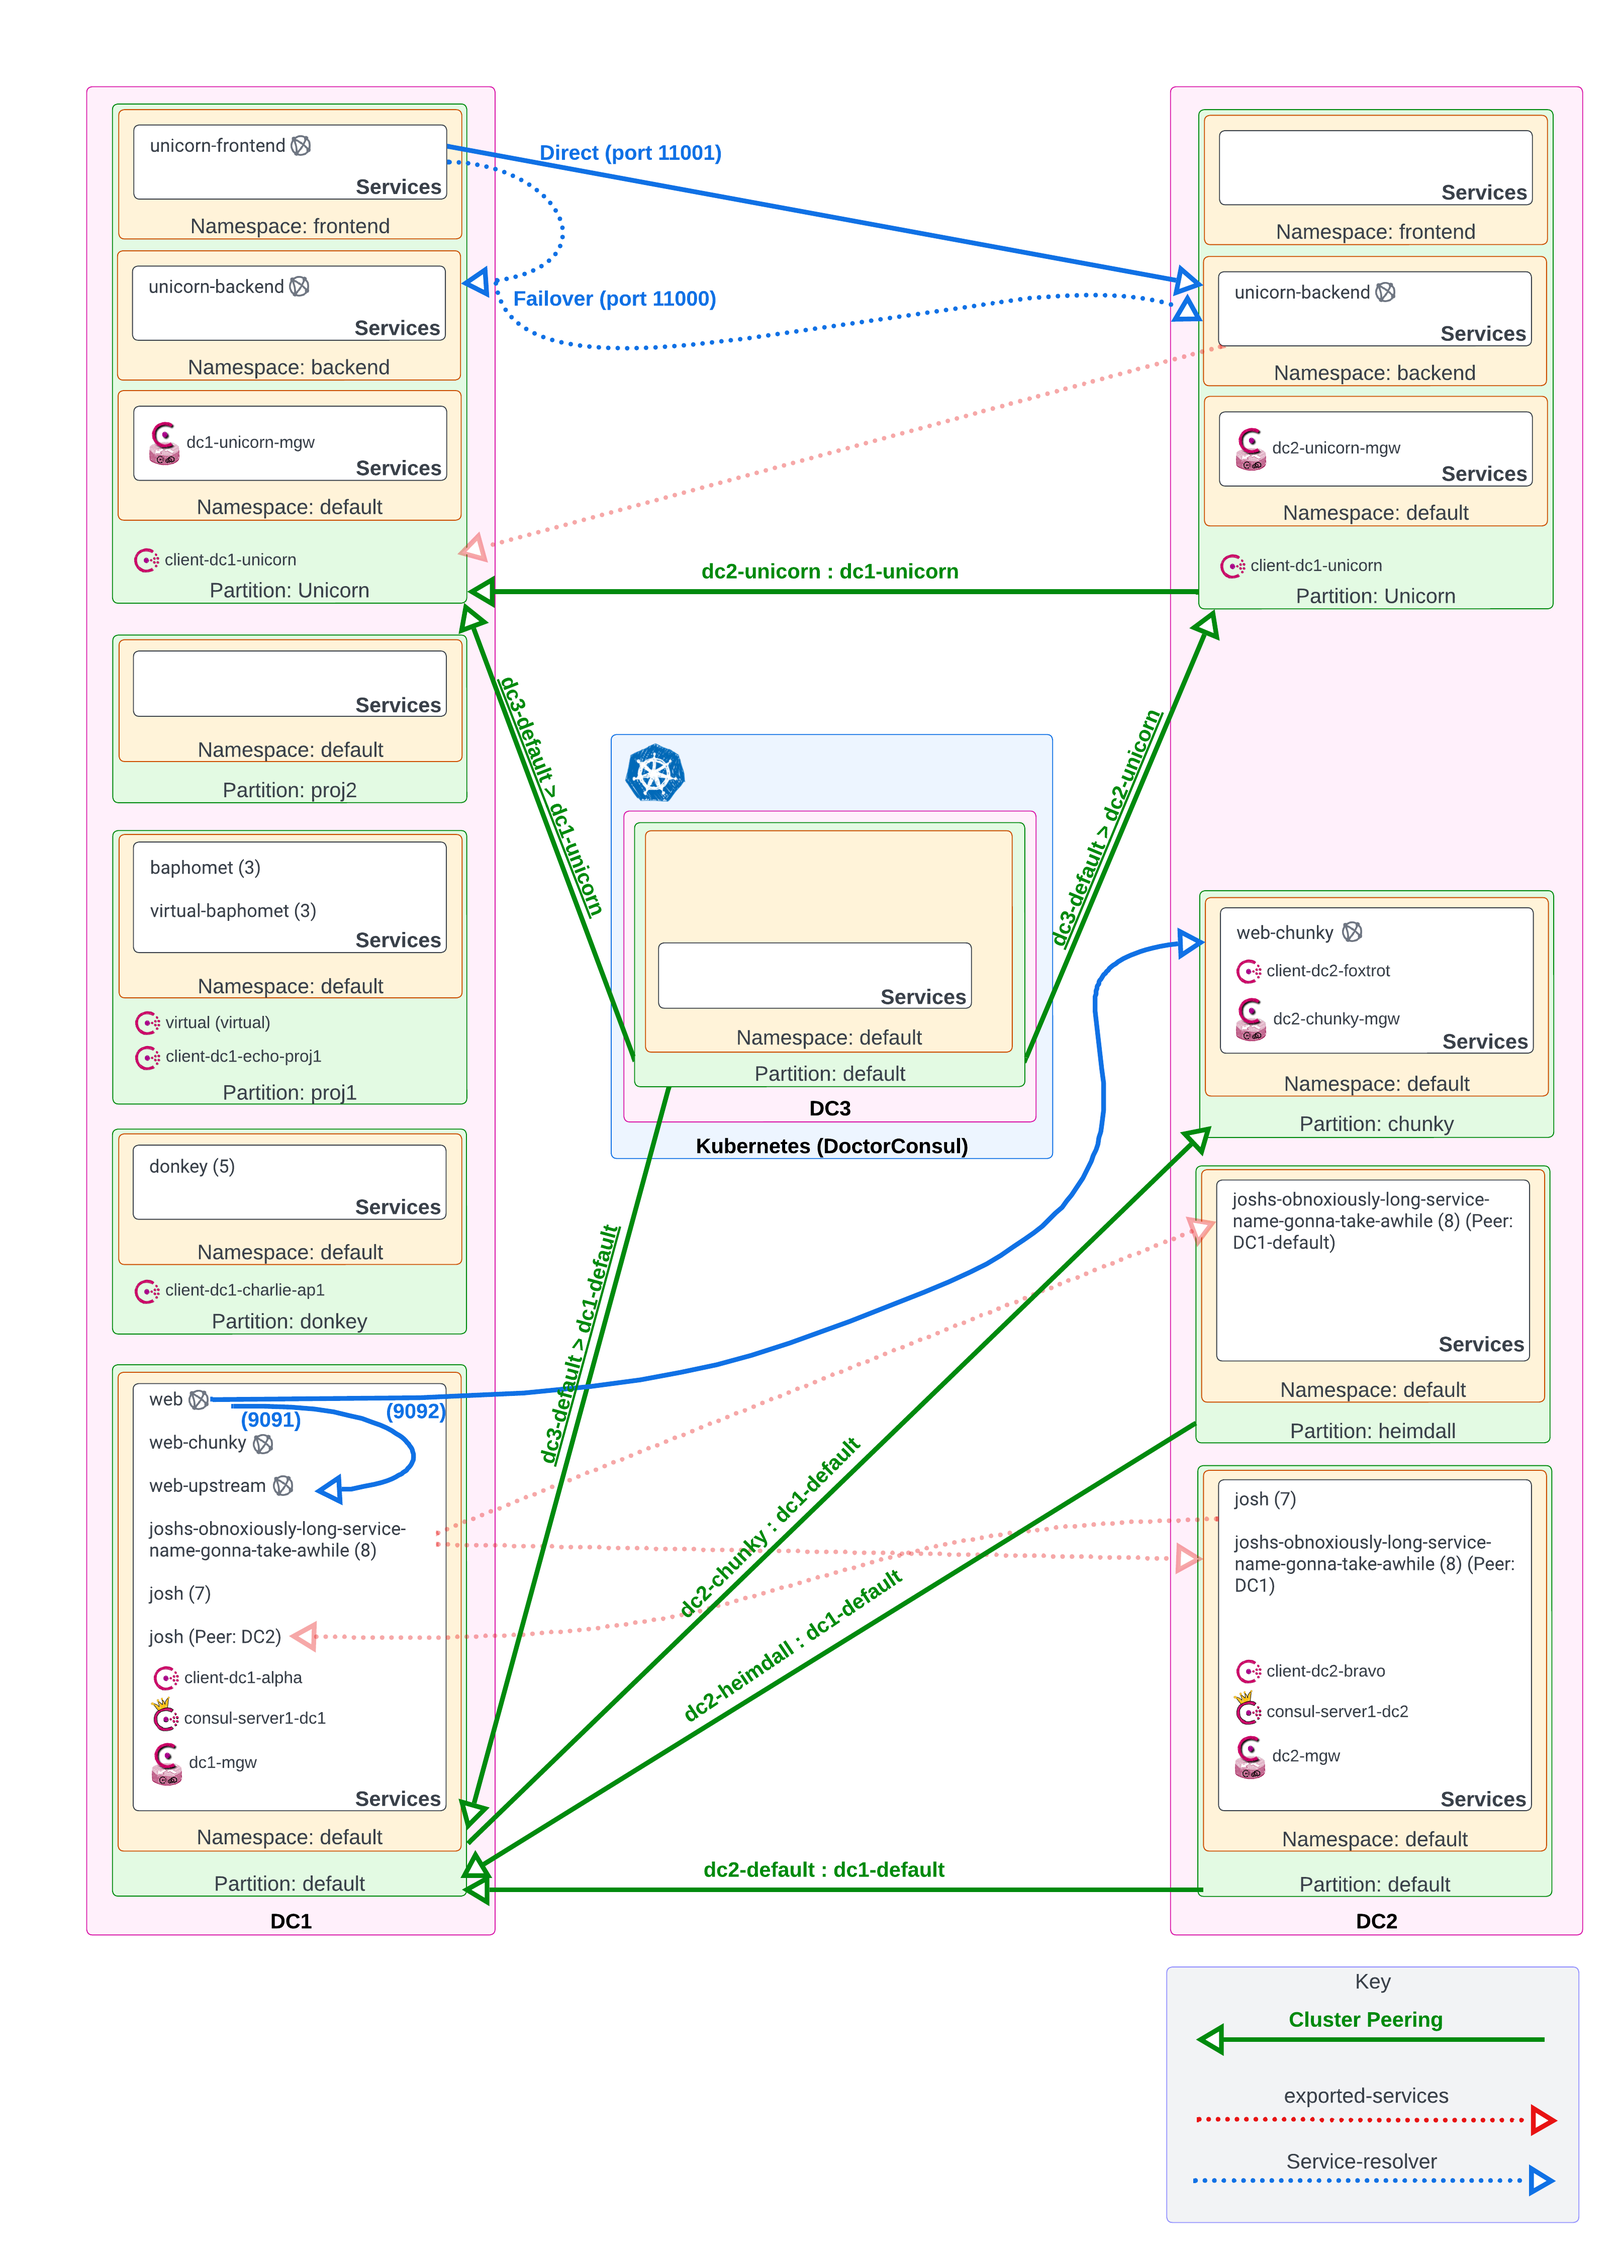
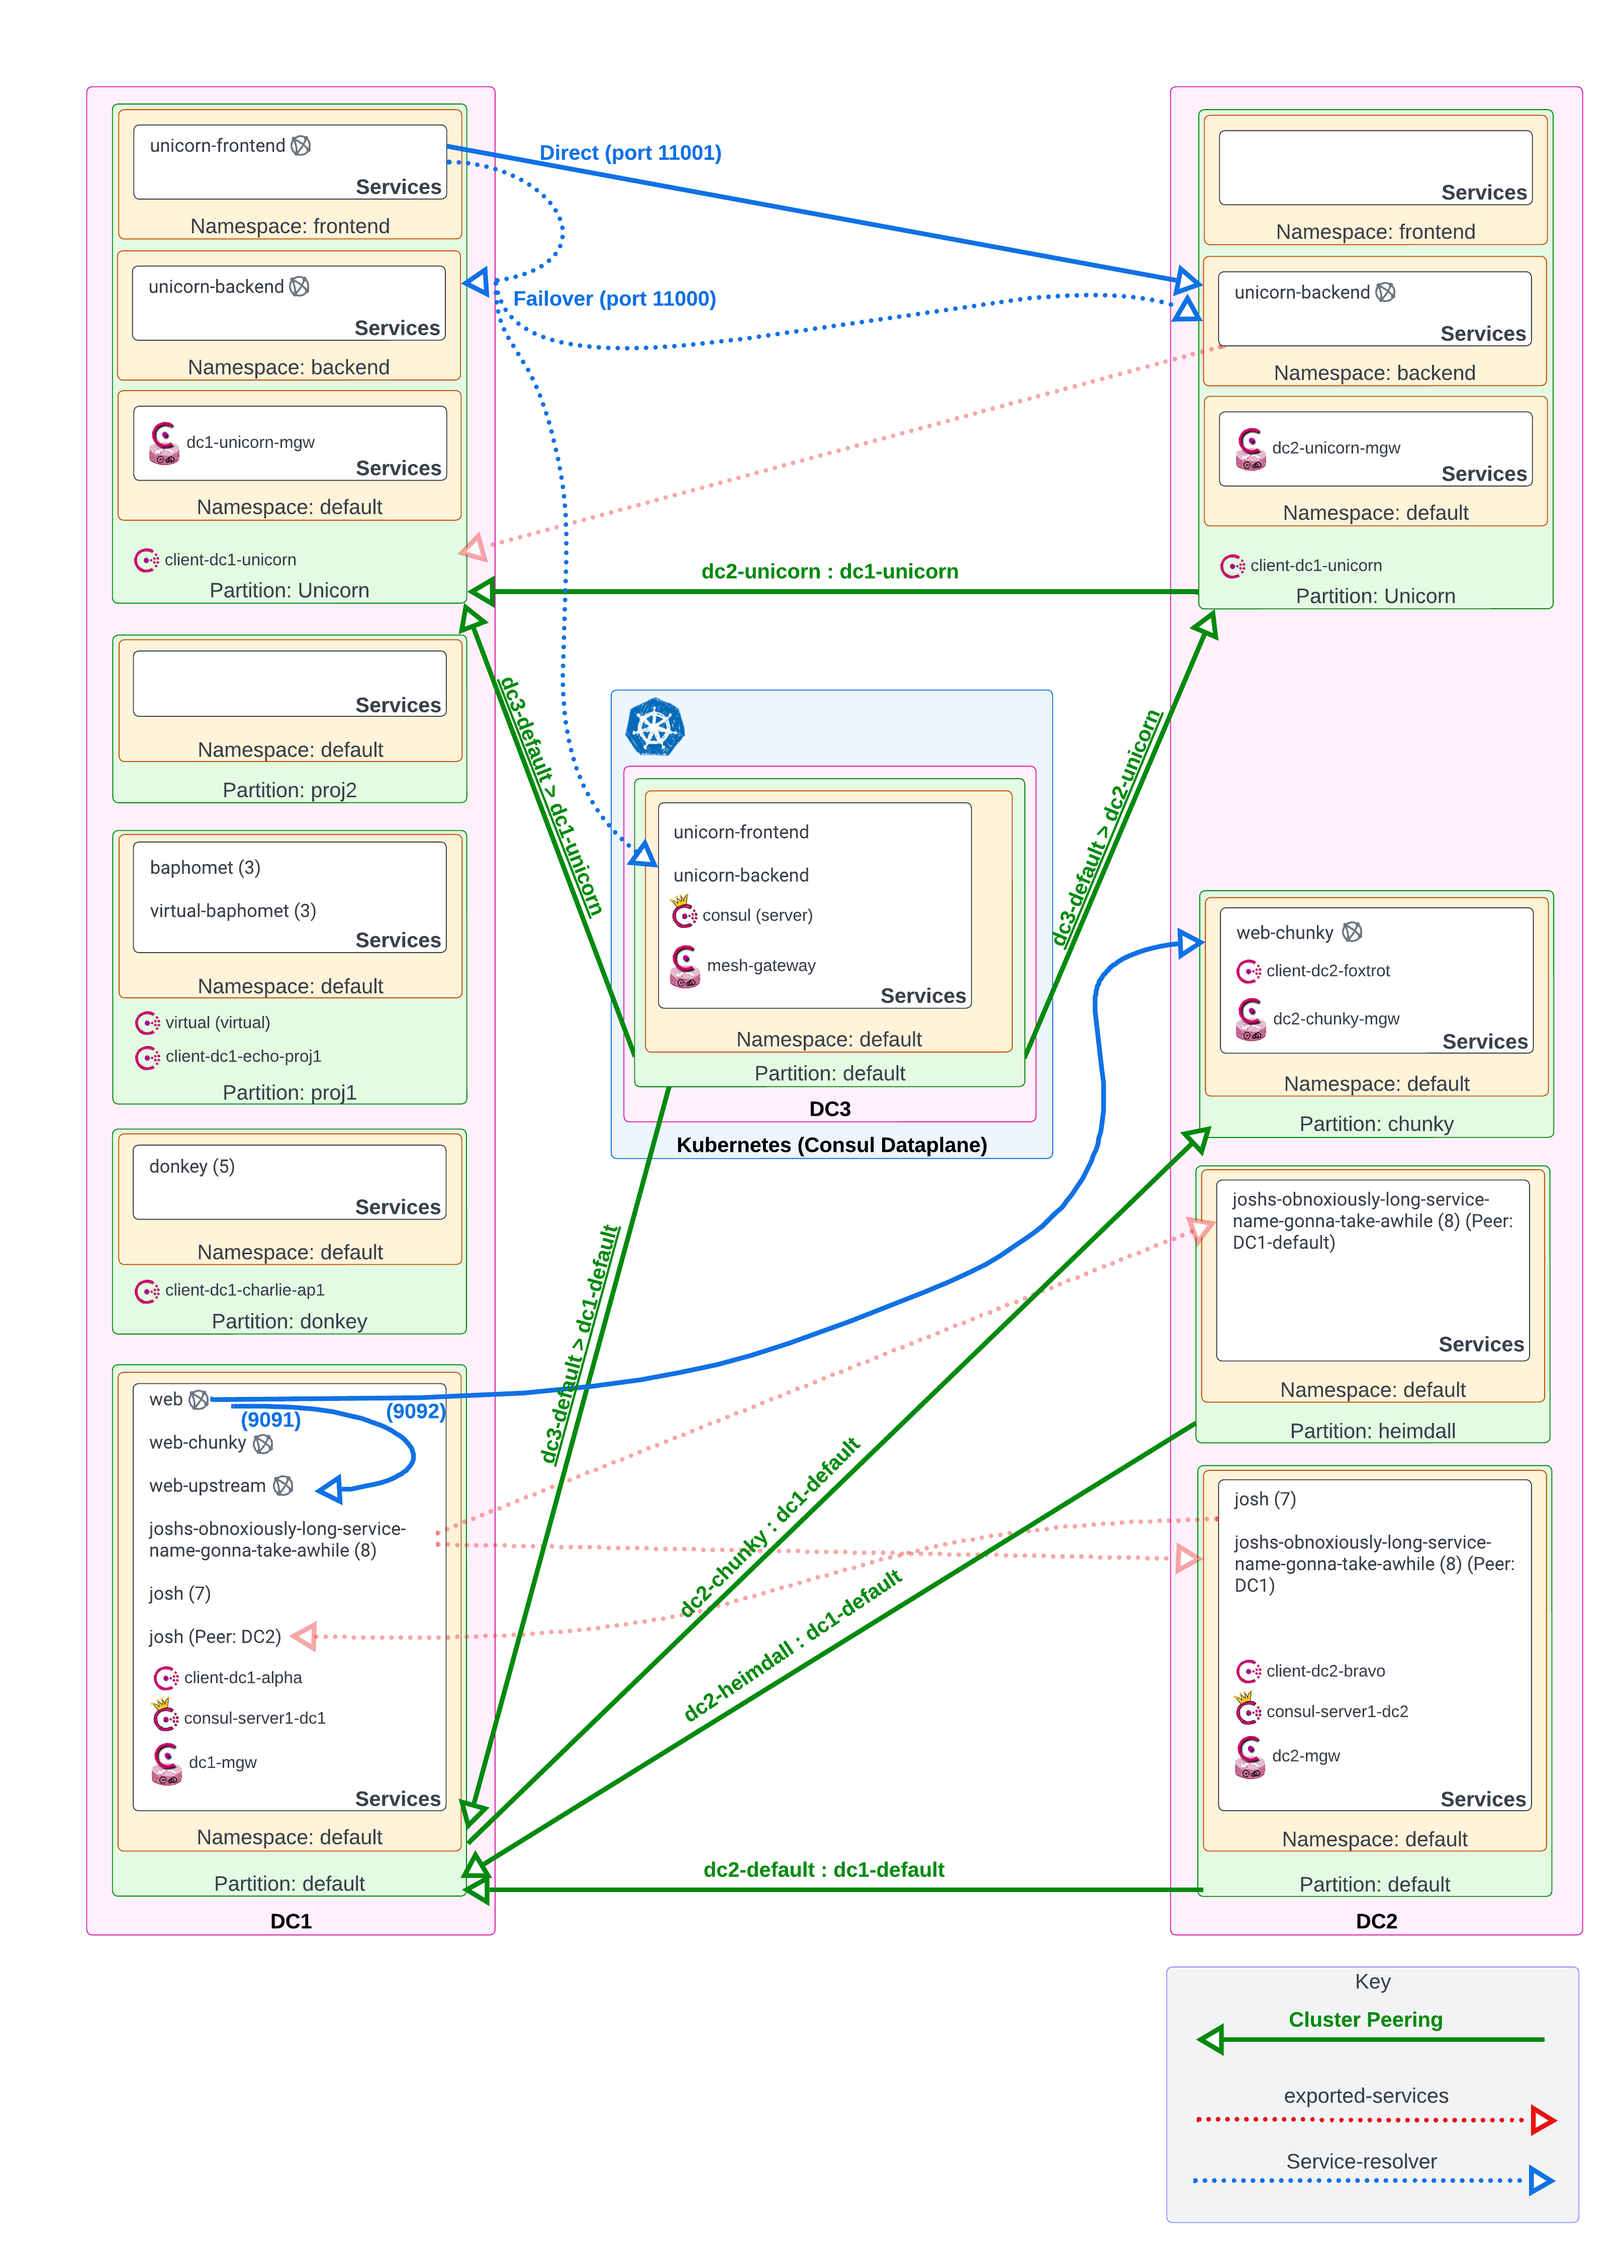
update bisual diagram

Changed region(s): [[0.3723, 0.3114, 0.6516, 0.4671], [0.4344, 0.4982, 0.5895, 0.5294]]

diff --git a/README.md b/README.md
@@ -89,12 +89,6 @@ Details:
 Architecture:
 ![](readme-images/architecture.png)
 
-^^^ Updates needed in diagram: 
-
-* k3d DC3
-  * unicorn-frontend
-  * unicorn-backend
-
 # Initialization Pre-Requirements
 
 ### Docker Compose
